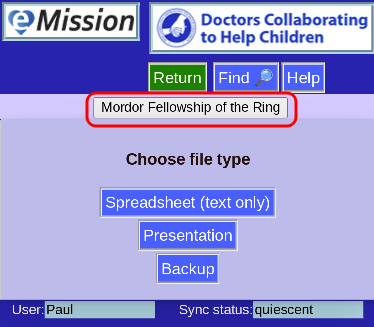
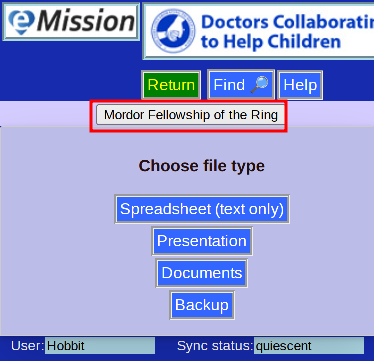
Finished Zip archive download option

diff --git a/js/downapp.js b/js/downapp.js
@@ -89,13 +89,13 @@ class Patient { // convenience class
         return db.allDocs(doc);
     }
         
-    static getAllIdDocPix() {
+    static getAllIdDocPix(binary=false) {
         // Note: using base64 here
         let doc = {
             startkey: Id_patient.allStart(),
             endkey:   Id_patient.allEnd(),
             include_docs: true,
-            binary: false,
+            binary: binary,
             attachments: true,
         };
 
@@ -927,62 +927,104 @@ class PPTX {
 }   
 
 class ZIP {
-	constructor () {
-		this.zip = new JSZip() ;
+    constructor () {
+        this.zip = new JSZip() ;
 
-		this.check_img = document.getElementById("imgZIP");
-		this.check_doc = document.getElementById("docZIP");
-		this.qbtn = document.getElementById("createZIP");
+        this.check_img = document.getElementById("imgZIP");
+        this.check_doc = document.getElementById("docZIP");
+        this.qbtn = document.getElementById("createZIP");
 
-		this.check_img.checked = true;
-		this.check_doc.checked = true;
-		this.test();
-	}
-	
-	test() {
-		this.qbtn.disabled = ! (this.check_img.checked || this.check_doc.checked) ;
-	}
-	
-	image_name( name, doc ) {
-		return [ name, doc._attachments.image.content_type.split("/")[1] ].join(".");
-	}
-	
-	one_note_image( path, doc ) {
-		if ( doc?._attachments?.image ) {
-			this.zip.file( [path,this.image_name(Id.splitId(doc._id).key,doc)].join("/"), doc._attachments.image.data, {
-				binary: true,
-				createFolders: true,
-				}) ;
-		}
-	}
-	
-	print() {
-		const qimg = this.check_img.checked ;
-		const qdoc = this.check_doc.checked ;
-		
-		Mission.getRecordId(true)
+        this.check_img.checked = true;
+        this.check_doc.checked = true;
+        this.test();
+    }
+    
+    test() {
+        this.qbtn.disabled = ! (this.check_img.checked || this.check_doc.checked) ;
+    }
+    
+    image_name( name, doc ) {
+        return [ name, doc._attachments.image.content_type.split("/")[1] ].join(".");
+    }
+    
+    one_note_image( path, doc ) {
+        if ( doc?._attachments?.image ) {
+            this.zip.file( [path,this.image_name(Id.splitId(doc._id).key,doc)].join("/"), doc._attachments.image.data, {
+                binary: true,
+                createFolders: true,
+                }) ;
+        }
+    }
+    
+    one_note_doc( path, doc ) {
+        if ( doc?._attachments ) {
+            Object.entries(doc._attachments)
+            .filter( f => f[0] !== "image" )
+            .forEach(f => this.zip.file( [path,f[0]].join("/"), f[1]["data"], {
+                binary: true,
+                createFolders: true,
+                })) ;
+        }
+    }
+    
+    print() {
+        const qimg = this.check_img.checked ;
+        const qdoc = this.check_doc.checked ;
+        
+        Mission.getRecordId(true)
         .then( doc => {
-			console.log(doc);
-			if ( qimg && doc?._attachments?.image ) {
-				console.log("print");
-				this.zip.file( this.image_name("Mission",doc), doc._attachments.image.data, {
-					binary: true,
-					createFolders: true,
-					}) ;
-			}
-			})
-		.then(_=> Note.getRecordsIdPix(missionId,true))
-		.then(notelist => notelist.rows
-			.forEach( doc => {
-				if ( qimg ) {
-					this.one_note_image( "Mission", doc );
-				}
-				})
-			)
-		.then( _ => this.zip.generateAsync({type:"blob"}) )
-		.then( blob => DownloadFile.blob( blob, `${remoteCouch.database}.zip` ) )
-		.catch( err => console.log(err) );
-	}
+            if ( qimg && doc?._attachments?.image ) {
+                this.zip.file( this.image_name("Mission",doc), doc._attachments.image.data, {
+                    binary: true,
+                    createFolders: true,
+                    }) ;
+            }
+            })
+        .then(_=> Note.getRecordsIdPix(missionId,true))
+        .then(notelist => notelist.rows
+            .forEach( row => {
+                if ( qimg ) {
+                    this.one_note_image( "Mission", row.doc );
+                }
+                if ( qdoc ) {
+                    this.one_note_doc( "Mission", row.doc );
+                }
+                })
+            )
+        .then( _ => Patient.getAllIdDocPix( true ) )
+        .then( doclist => {
+            this.numpats = doclist.rows.length ;
+            this.pat = 0 ;
+            // for each patient
+            return PromiseSeq(
+                doclist.rows.map( pt => {
+                    return _ =>
+                    db.query( "Pid2Name", {key:pt.id})
+                    .then( q => {
+                        this.pname = q.rows[0].value[0] ;
+                        if ( qimg && pt.doc?._attachments?.image ) {
+                            this.zip.file( this.image_name(this.pname,pt.doc), pt.doc._attachments.image.data, {
+                                binary: true,
+                                createFolders: true,
+                                }) ;
+                        }
+                        })
+                    .then( _ => Note.getRecordsIdPix( pt.id, true) )                    
+                    .then( notelist => notelist.rows.forEach( row => {
+                        if ( qimg ) {
+                            this.one_note_image( this.pname, row.doc );
+                        }
+                        if ( qdoc ) {
+                            this.one_note_doc( this.pname, row.doc );
+                        }
+                    }))
+                    
+                })
+            )})
+        .then( _ => this.zip.generateAsync({type:"blob"}) )
+        .then( blob => DownloadFile.blob( blob, `${remoteCouch.database}.zip` ) )
+        .catch( err => console.log(err) );
+    }
 }
 
 class Page { // singleton class

diff --git a/src/DownloadZIP.md b/src/DownloadZIP.md
@@ -1,0 +1,24 @@
+# Archive of Images and Files
+
+This option creates a compressed archive of all the non-text material.
+
+![](images/DownloadZIP.png)
+
+Specifically:
+
+* Pictures
+  * Patient ID pictures
+  * Pictures in patient notes
+  * Pictures in mission notes
+* Included files from
+  * patient notes
+  * missoin notes
+  
+![](images/ZIP.png)
+
+Inside the archive file
+
+* Patient ID photos are in the root directory
+* Each patient, and the mission itself, has a folder
+  * Files are in the appropriate folder
+  * Pictures are in the approprite folder, labeled by date.

diff --git a/src/Download.md b/src/Download.md
@@ -12,6 +12,10 @@ There are a number ways to get Mission information in a form usable for other pr
   * Useful as PowerPoint input
   * PPTX format is a standard interchange
   * Presented as one record per slide
+* **Archive**
+  * Contains all non-text elements
+  * Organized by patient
+  * Zip format 
 * **Backup**
   * This format is raw JSON
   * Usable as input into Couchdb and possibly others

diff --git a/src/SUMMARY.md b/src/SUMMARY.md
@@ -42,6 +42,7 @@
   - [Download](Download.md)
     - [Speadsheet](DownloadCSV.md)
     - [Presentation (PowerPoint)](DownloadPPTX.md)
+    - [Archive of Images and Files](DownloadZIP.md)
     - [Backup](DownloadJSON.md)
   - [Administration](Administration.md)
     - [Super User (Top level access)](SuperUser.md)
